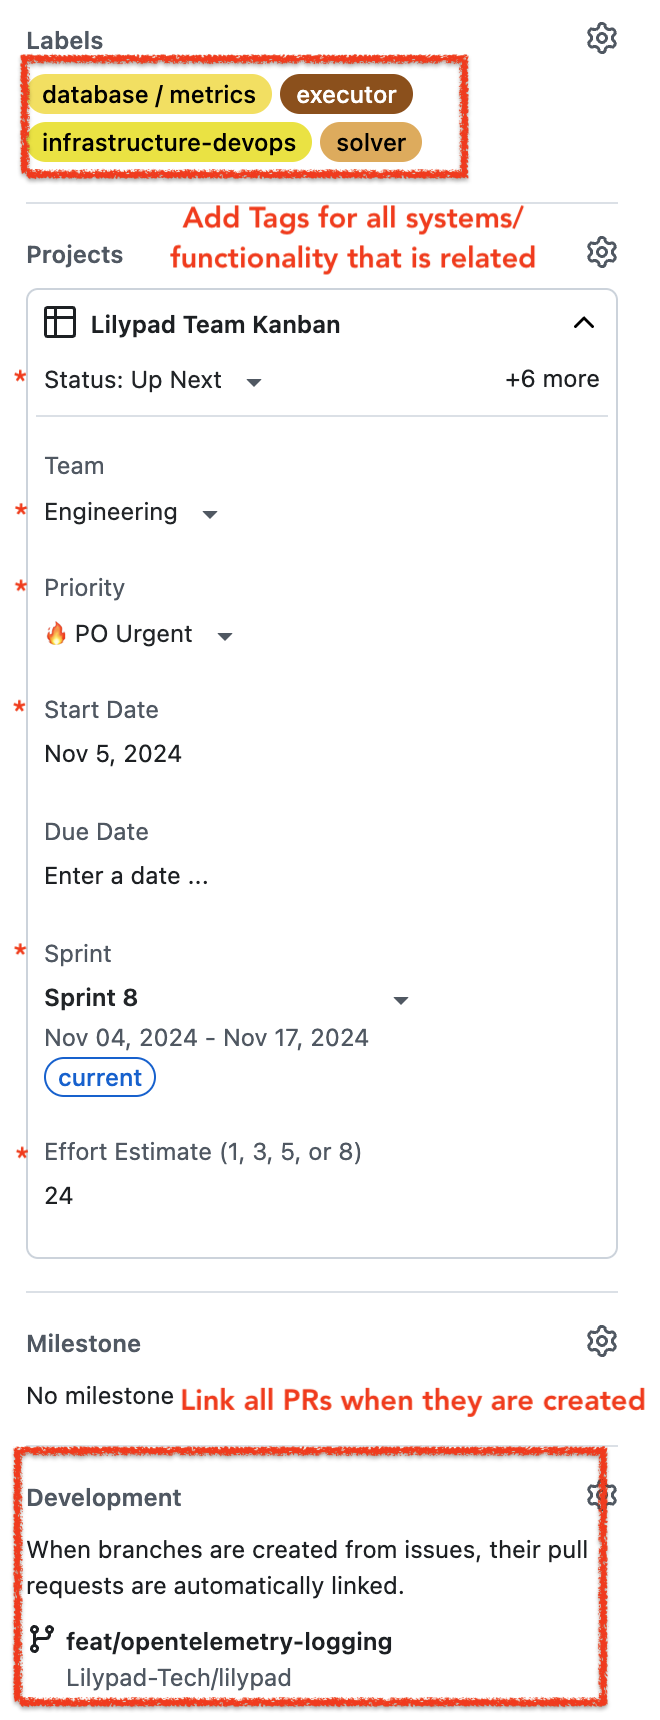
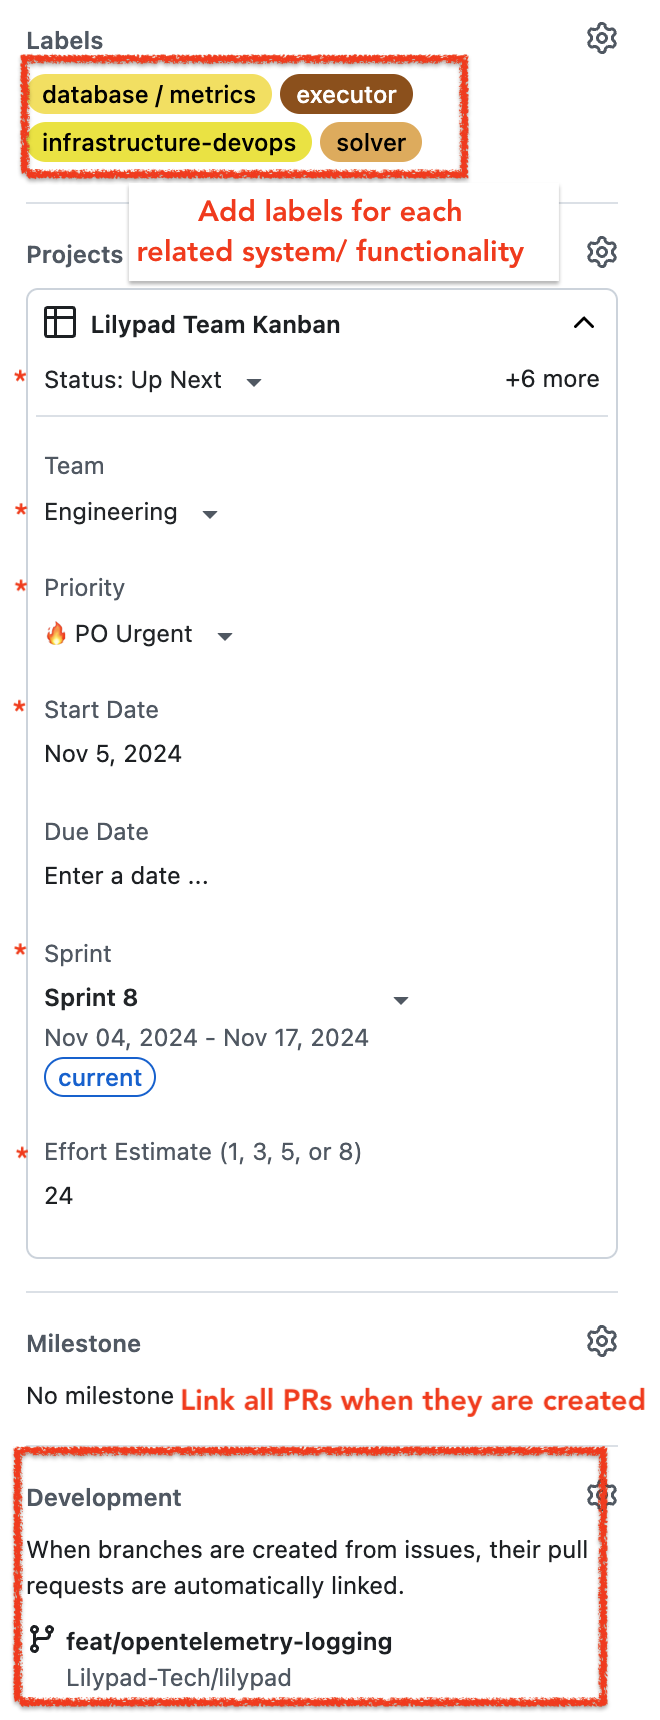
changed tags to labels in copy

Changed region(s): [[0.2121, 0.0924, 0.8182, 0.1849]]

diff --git a/.github/ISSUE_TEMPLATE/issue--developer-.md b/.github/ISSUE_TEMPLATE/issue--developer-.md
@@ -16,7 +16,7 @@ solver, job-creation, executor, mediation, protocol-smart-contracts, module-deve
 ## Describe the changes, and how this affects/ interacts with each system.
 
 <Delete Below> -------------------------------------------------------------------------
-## Once this issue is created, please update the following
+## Once this issue is created, please update the following:
 
 ![image](../assets/issue-tags.png)
 
@@ -28,5 +28,5 @@ solver, job-creation, executor, mediation, protocol-smart-contracts, module-deve
 * **Effort Estimate** - Your best guess. 1 = xs 3= sm 5 = md 8 = lg 
 * **Development** - Please link all PRs as they are created!
 
-### Add Tags for all the systems/ functionality this is related to
+ **Add Labels for all the systems/ functionality this is related to**
 
